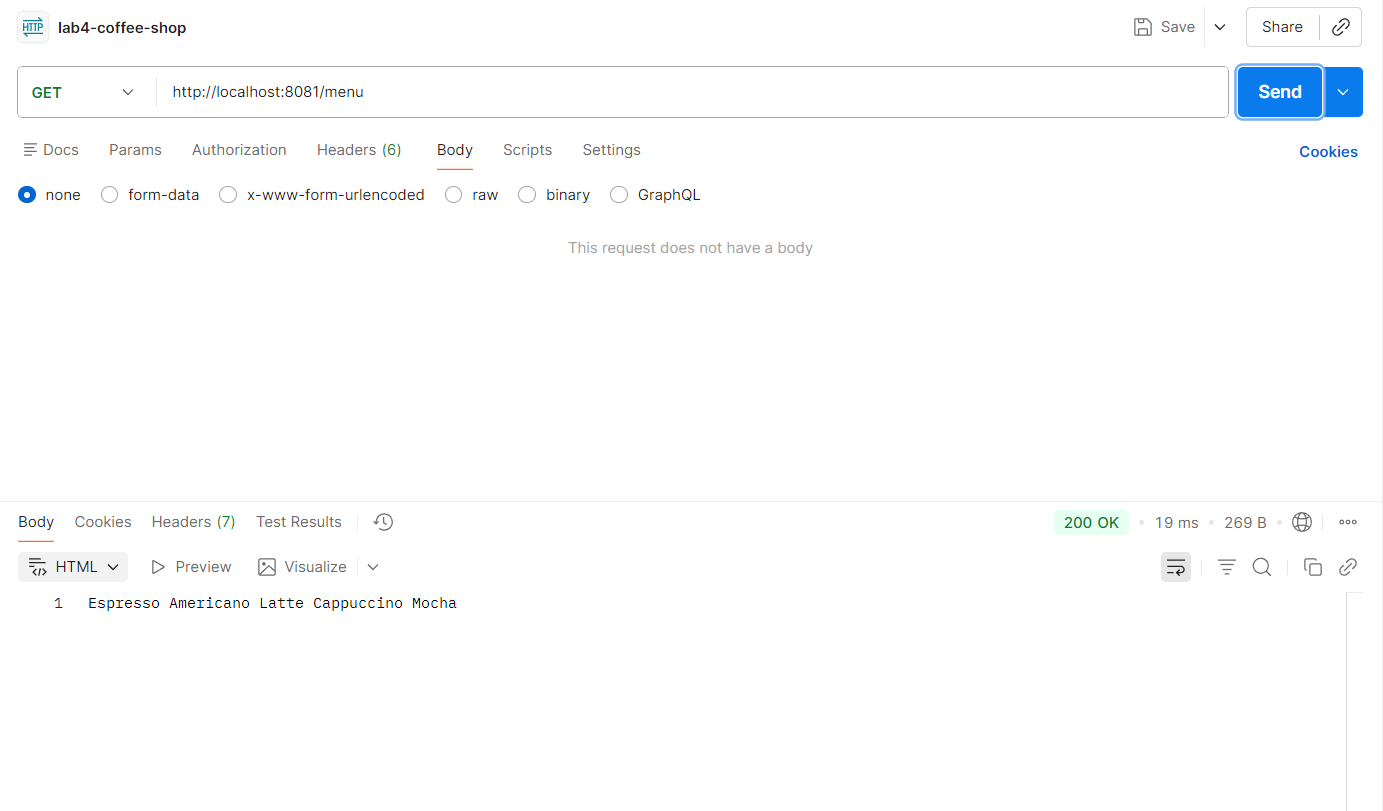
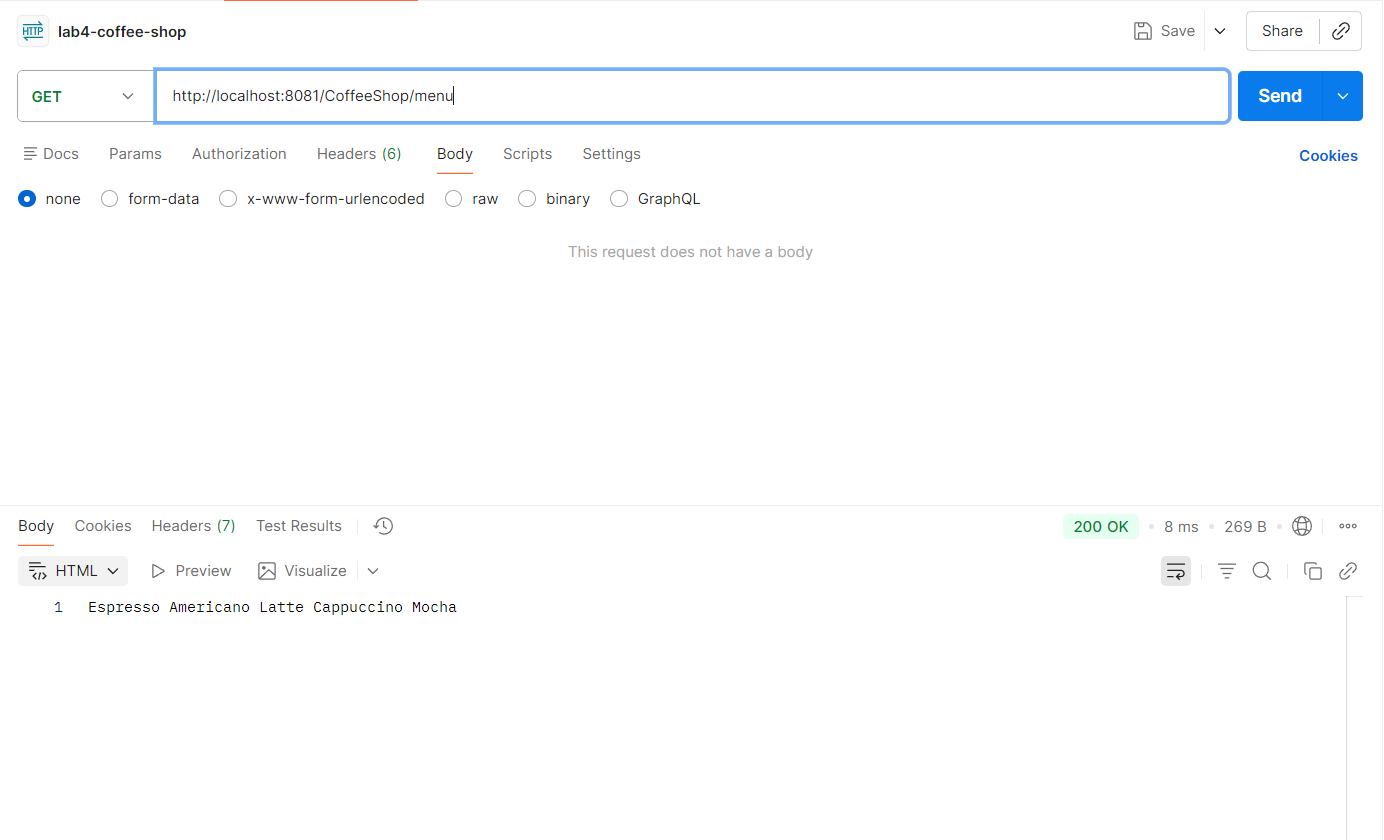
Complete Lab 4 Coffee Shop API

diff --git a/server/src/app.js b/server/src/app.js
@@ -7,12 +7,12 @@ app.use(bodyParser.json());
 app.use(bodyParser.urlencoded({ extended: true }));
 
 //home 
-app.get('/', (req, res) => {
+app.get('/CoffeeShop', (req, res) => {
     res.send('Welcome to our coffee shop!');
 });
 
 //menu 
-app.get('/menu', (req, res) => {
+app.get('/CoffeeShop/menu', (req, res) => {
     res.send('Espresso Americano Latte Cappuccino Mocha');
 });
 
